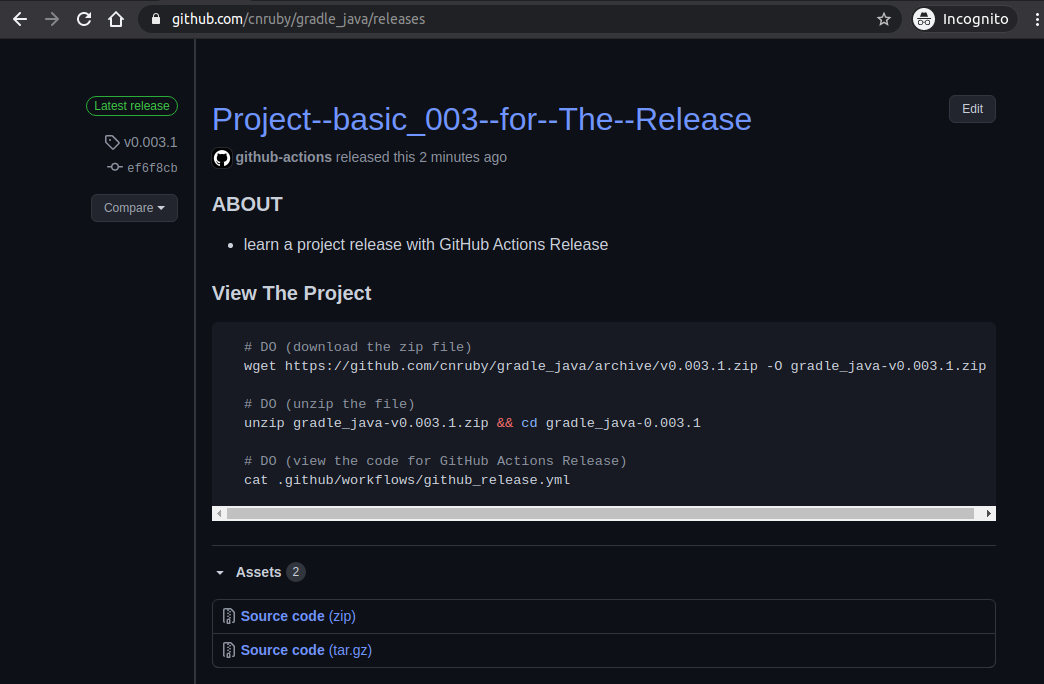
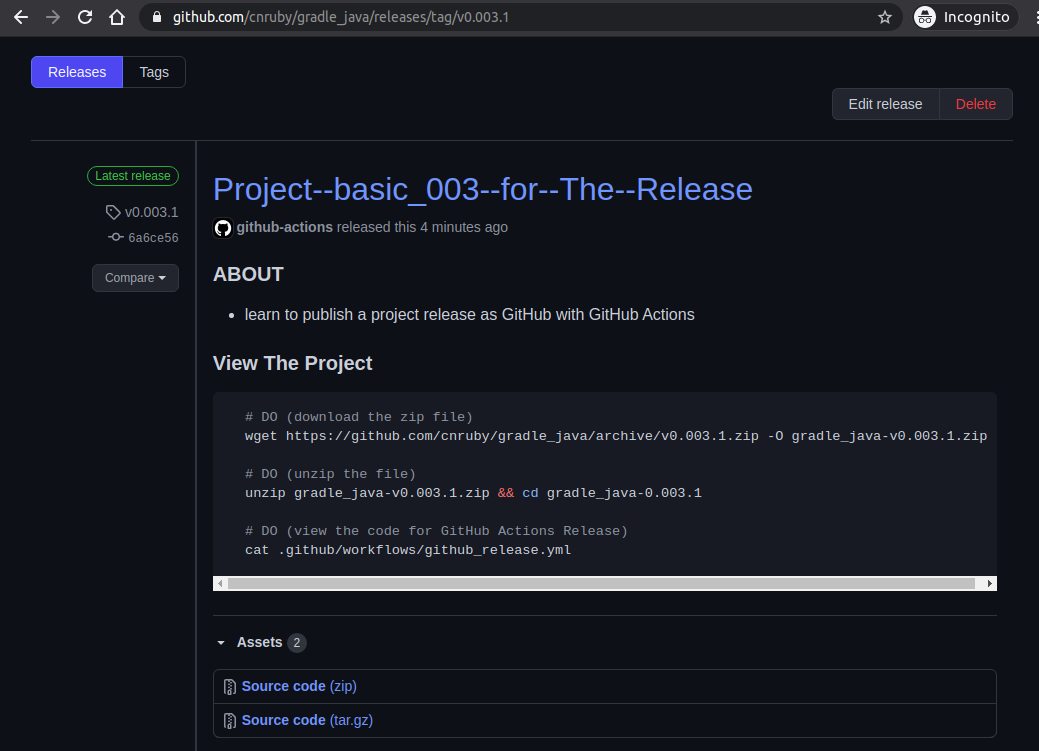
basic_003 Hello GitHub Actions Release!

diff --git a/README.md b/README.md
@@ -94,11 +94,10 @@ google-chrome https://github.com/cnruby/gradle_java/actions
 
 ```bash
 # DO (View The Release)
-google-chrome https://github.com/cnruby/gradle_java/releases
+google-chrome https://github.com/cnruby/gradle_java/releases/tag/v0.003.1
 ```
 
 ![View The Release](doc/image/basic_003_release.png)
-
 
 
 
